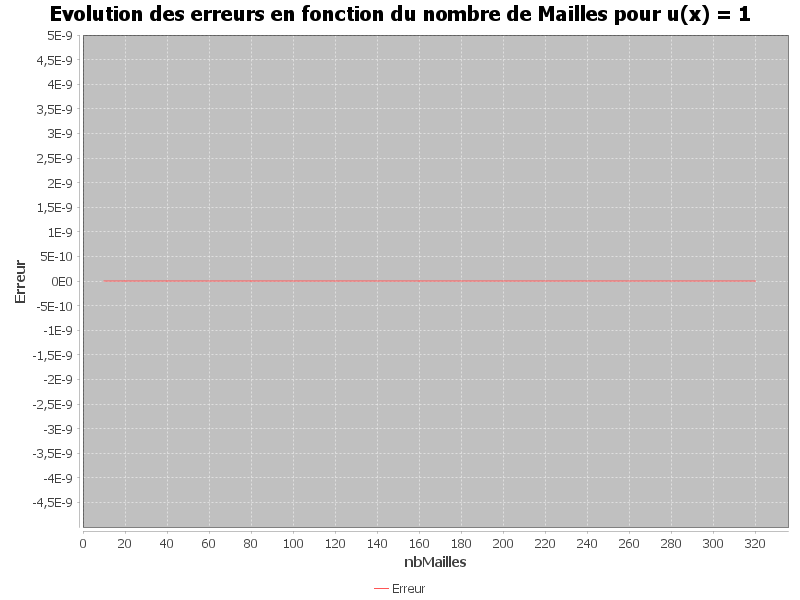
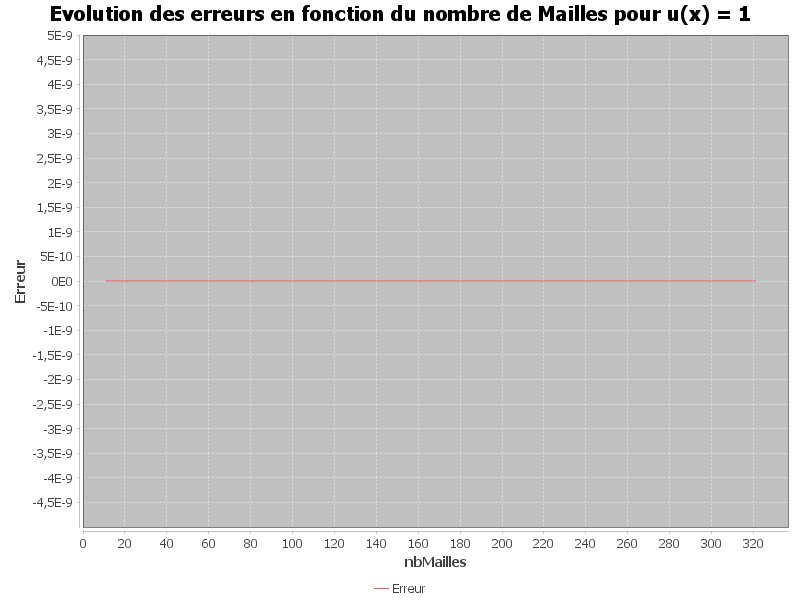
fix errors computation

diff --git a/src/test/java/ElementsFinisTest.java b/src/test/java/ElementsFinisTest.java
@@ -104,10 +104,10 @@ public class ElementsFinisTest {
     public void differencesFiniesTest1(){
         System.out.println("Tests avec u(x) = 1");
         System.out.println("Cas avec 320 points entre 0 et 1");
-        int[] nbsMailles = {10, 20, 40, 80, 160, 320};
-        int nbMailles = 11;
+        int[] nbsMailles = {11, 21, 41, 81, 161, 321};
+        int nbMailles = 321;
         ArrayList<Double> fValues = new ArrayList();
-        double pas = 1.0/(nbMailles-1);
+        double pas = 1.0/(nbMailles);
         double init =0.0;
         for(int i = 0; i<nbMailles-1; i++){
             init += pas;
@@ -139,7 +139,7 @@ public class ElementsFinisTest {
             FileWriter writer = new FileWriter("Test1_u(x)=1.txt");
             for (int i:nbsMailles){
                 ArrayList<Double> fValuesI = new ArrayList();
-                double pasI = 1.0/(i-1);
+                double pasI = 1.0/(i);
                 double initI =0.0;
                 for(int j = 0; j<i-1; j++){
                     initI += pas;
@@ -204,10 +204,10 @@ public class ElementsFinisTest {
     public void differencesFiniesTest2(){
         System.out.println("Tests avec u(x) = x");
         System.out.println("Cas avec 320 points entre 0 et 1");
-        int[] nbsMailles = {10, 20, 40, 80, 160, 320};
-        int nbMailles = 11;
+        int[] nbsMailles = {11, 21, 41, 81, 161, 321};
+        int nbMailles = 321;
         ArrayList<Double> fValues = new ArrayList();
-        double pas = 1.0/(nbMailles-1);
+        double pas = 1.0/(nbMailles);
         double init =0.0;
         for(int i = 0; i<nbMailles-1; i++){
             init += pas;
@@ -240,7 +240,7 @@ public class ElementsFinisTest {
             FileWriter writer = new FileWriter("Test2_u(x)=x.txt");
             for (int i:nbsMailles){
                 ArrayList<Double> fValuesI = new ArrayList();
-                double pasI = 1.0/(i-1);
+                double pasI = 1.0/(i);
                 double initI =0.0;
                 for(int j = 0; j<i-1; j++){
                     initI += pas;
@@ -305,10 +305,10 @@ public class ElementsFinisTest {
     public void differencesFiniesTest3(){
         System.out.println("Tests avec f(x) = x^2");
         System.out.println("Cas avec 320 points entre 0 et 1");
-        int[] nbsMailles = {10, 20, 40, 80, 160, 320};
-        int nbMailles = 11;
+        int[] nbsMailles = {11, 21, 41, 81, 161, 321};
+        int nbMailles = 321;
         ArrayList<Double> fValues = new ArrayList();
-        double pas = 1.0/(nbMailles-1);
+        double pas = 1.0/(nbMailles);
         double init =0.0;
         for(int i = 0; i<nbMailles-1; i++){
             init += pas;
@@ -341,7 +341,7 @@ public class ElementsFinisTest {
             FileWriter writer = new FileWriter("Test3_u(x)=x^2.txt");
             for (int i:nbsMailles){
                 ArrayList<Double> fValuesI = new ArrayList();
-                double pasI = 1.0/(i-1);
+                double pasI = 1.0/(i);
                 double initI =0.0;
                 for(int j = 0; j<i-1; j++){
                     initI += pas;
@@ -406,10 +406,10 @@ public class ElementsFinisTest {
     public void differencesFiniesTest4(){
         System.out.println("Tests avec f(x) = x^3");
         System.out.println("Cas avec 320 points entre 0 et 1");
-        int[] nbsMailles = {10, 20, 40, 80, 160, 320};
-        int nbMailles = 11;
+        int[] nbsMailles = {11, 21, 41, 81, 161, 321};
+        int nbMailles = 321;
         ArrayList<Double> fValues = new ArrayList();
-        double pas = 1.0/(nbMailles-1);
+        double pas = 1.0/(nbMailles);
         double init =0.0;
         for(int i = 0; i<nbMailles-1; i++){
             init += pas;
@@ -442,7 +442,7 @@ public class ElementsFinisTest {
             FileWriter writer = new FileWriter("Test4_u(x)=x^3.txt");
             for (int i:nbsMailles){
                 ArrayList<Double> fValuesI = new ArrayList();
-                double pasI = 1.0/(i-1);
+                double pasI = 1.0/(i);
                 double initI =0.0;
                 for(int j = 0; j<i-1; j++){
                     initI += pas;
@@ -507,10 +507,10 @@ public class ElementsFinisTest {
     public void differencesFiniesTest5(){
         System.out.println("Tests avec f(x) = sin(pi*x)");
         System.out.println("Cas avec 320 points entre 0 et 1");
-        int[] nbsMailles = {10, 20, 40, 80, 160, 320};
-        int nbMailles = 11;
+        int[] nbsMailles = {11, 21, 41, 81, 161, 321};
+        int nbMailles = 321;
         ArrayList<Double> fValues = new ArrayList();
-        double pas = 1.0/(nbMailles-1);
+        double pas = 1.0/(nbMailles);
         double init =0.0;
         for(int i = 0; i<nbMailles-1; i++){
             init += pas;
@@ -543,7 +543,7 @@ public class ElementsFinisTest {
             FileWriter writer = new FileWriter("Test4_u(x)=sin(pi x).txt");
             for (int i:nbsMailles){
                 ArrayList<Double> fValuesI = new ArrayList();
-                double pasI = 1.0/(i-1);
+                double pasI = 1.0/(i);
                 double initI =0.0;
                 for(int j = 0; j<i-1; j++){
                     initI += pas;
